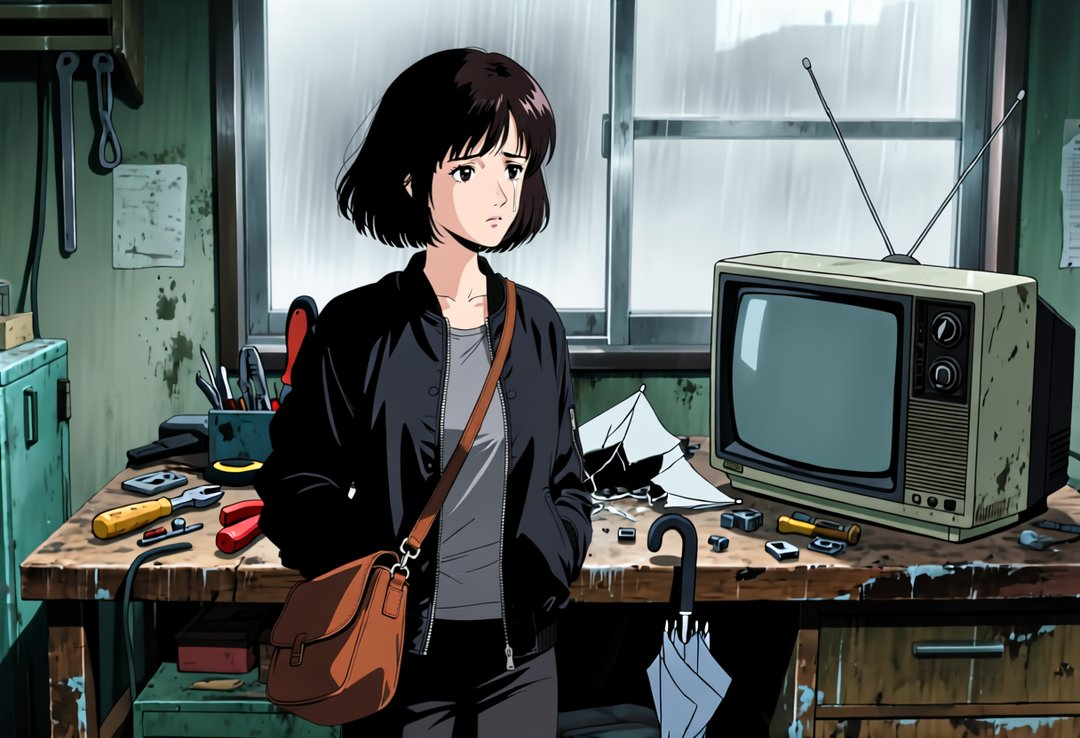
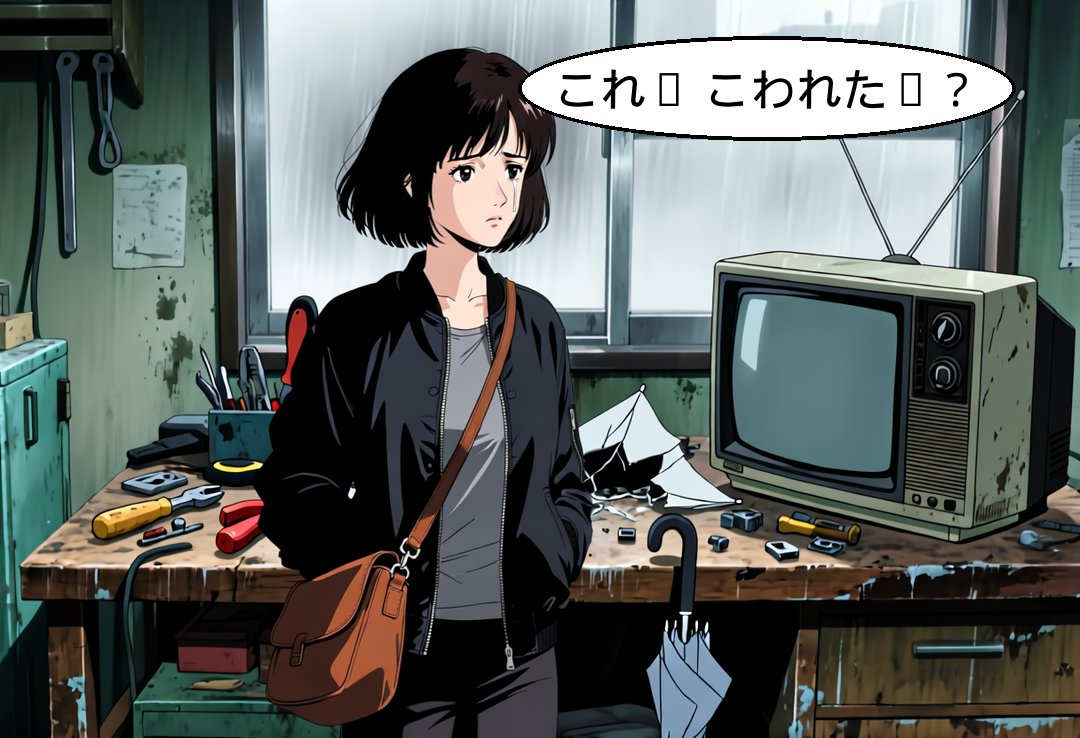
feat(story): Prototyp-Lettering + Folge-01-Erlebnisdaten — hitAreas, intro/outro, Reaktionen (Reader-Erleben)

Changed region(s): [[0.4583, 0.0312, 0.9472, 0.2182]]

diff --git a/lib/features/story/episodes/folge_01_regen.dart b/lib/features/story/episodes/folge_01_regen.dart
@@ -19,6 +19,12 @@ const Map<String, dynamic> pilot01RegenJson = {
   'title': 'Regen',
   'locale': 'ja',
   'era': '1996',
+  'intro':
+      'Eine junge Frau steigt allein aus dem Zug — es regnet. '
+      'In ihrer Hand: ein Zettel, dessen Tinte verläuft.',
+  'outro':
+      'Der Schirm ist geliehen, der Regen hört nicht auf. '
+      'Und der Name über dem Café … den hat sie doch schon einmal gelesen?',
   'budget': {
     'items': [
       {'id': 'lex_ja_sumimasen', 'refType': 'lexeme'},
@@ -126,6 +132,12 @@ const Map<String, dynamic> pilot01RegenJson = {
             {
               'speakerId': 'protagonist',
               'text': 'すみません',
+              'hitArea': [
+                {'x': 0.52, 'y': 0.05},
+                {'x': 0.94, 'y': 0.05},
+                {'x': 0.94, 'y': 0.19},
+                {'x': 0.52, 'y': 0.19},
+              ],
               'tokens': [
                 {'surface': 'すみません', 'itemId': 'lex_ja_sumimasen'},
               ],
@@ -133,7 +145,9 @@ const Map<String, dynamic> pilot01RegenJson = {
           ],
           'thoughts': [],
           'interactions': [
-            {'type': 'speak', 'diegetic': true},
+            {'type': 'speak', 'diegetic': true,
+             'reactionAsset': 'assets/story/p07_reaction.jpg',
+             'reactionCaption': 'Sie hat dich gehört.'},
           ],
           'notes':
               'Eine ältere Frau kommt ihr entgegen, Einkaufstüte, zügig. '
@@ -147,6 +161,12 @@ const Map<String, dynamic> pilot01RegenJson = {
             {
               'speakerId': 'passantin',
               'text': 'はい？',
+              'hitArea': [
+                {'x': 0.06, 'y': 0.05},
+                {'x': 0.42, 'y': 0.05},
+                {'x': 0.42, 'y': 0.18},
+                {'x': 0.06, 'y': 0.18},
+              ],
               'tokens': [
                 {'surface': 'はい', 'itemId': null},
               ],
@@ -199,6 +219,12 @@ const Map<String, dynamic> pilot01RegenJson = {
             {
               'speakerId': 'signage',
               'text': 'あめ',
+              'hitArea': [
+                {'x': 0.32, 'y': 0.36},
+                {'x': 0.62, 'y': 0.36},
+                {'x': 0.62, 'y': 0.50},
+                {'x': 0.32, 'y': 0.50},
+              ],
               'tokens': [
                 {'surface': 'あめ', 'itemId': 'lex_ja_ame'},
               ],
@@ -283,6 +309,12 @@ const Map<String, dynamic> pilot01RegenJson = {
             {
               'speakerId': 'ladenbesitzer',
               'text': 'これ、こわれた',
+              'hitArea': [
+                {'x': 0.06, 'y': 0.05},
+                {'x': 0.52, 'y': 0.05},
+                {'x': 0.52, 'y': 0.19},
+                {'x': 0.06, 'y': 0.19},
+              ],
               'tokens': [
                 {'surface': 'これ', 'itemId': 'lex_ja_kore'},
                 {'surface': 'こわれた', 'itemId': 'lex_ja_kowareta'},
@@ -304,6 +336,12 @@ const Map<String, dynamic> pilot01RegenJson = {
             {
               'speakerId': 'protagonist',
               'text': 'これ… こわれた…？',
+              'hitArea': [
+                {'x': 0.48, 'y': 0.05},
+                {'x': 0.94, 'y': 0.05},
+                {'x': 0.94, 'y': 0.19},
+                {'x': 0.48, 'y': 0.19},
+              ],
               'tokens': [
                 {'surface': 'これ', 'itemId': 'lex_ja_kore'},
                 {'surface': 'こわれた', 'itemId': 'lex_ja_kowareta'},
@@ -325,6 +363,12 @@ const Map<String, dynamic> pilot01RegenJson = {
             {
               'speakerId': 'ladenbesitzer',
               'text': 'はい',
+              'hitArea': [
+                {'x': 0.06, 'y': 0.05},
+                {'x': 0.36, 'y': 0.05},
+                {'x': 0.36, 'y': 0.17},
+                {'x': 0.06, 'y': 0.17},
+              ],
               'tokens': [
                 {'surface': 'はい', 'itemId': 'lex_ja_hai'},
               ],
@@ -350,6 +394,12 @@ const Map<String, dynamic> pilot01RegenJson = {
             {
               'speakerId': 'protagonist',
               'text': 'ありがとう',
+              'hitArea': [
+                {'x': 0.52, 'y': 0.05},
+                {'x': 0.94, 'y': 0.05},
+                {'x': 0.94, 'y': 0.18},
+                {'x': 0.52, 'y': 0.18},
+              ],
               'tokens': [
                 {'surface': 'ありがとう', 'itemId': 'lex_ja_arigatou'},
               ],
@@ -370,6 +420,12 @@ const Map<String, dynamic> pilot01RegenJson = {
             {
               'speakerId': 'ladenbesitzer',
               'text': 'はい。かさ。どうぞ',
+              'hitArea': [
+                {'x': 0.06, 'y': 0.05},
+                {'x': 0.56, 'y': 0.05},
+                {'x': 0.56, 'y': 0.19},
+                {'x': 0.06, 'y': 0.19},
+              ],
               'tokens': [
                 {'surface': 'はい', 'itemId': 'lex_ja_hai'},
                 {'surface': 'かさ', 'itemId': 'lex_ja_kasa'},
@@ -392,6 +448,12 @@ const Map<String, dynamic> pilot01RegenJson = {
             {
               'speakerId': 'protagonist',
               'text': 'ありがとう… すみません',
+              'hitArea': [
+                {'x': 0.44, 'y': 0.05},
+                {'x': 0.94, 'y': 0.05},
+                {'x': 0.94, 'y': 0.19},
+                {'x': 0.44, 'y': 0.19},
+              ],
               'tokens': [
                 {'surface': 'ありがとう', 'itemId': 'lex_ja_arigatou'},
                 {'surface': 'すみません', 'itemId': 'lex_ja_sumimasen'},
@@ -400,7 +462,9 @@ const Map<String, dynamic> pilot01RegenJson = {
           ],
           'thoughts': [],
           'interactions': [
-            {'type': 'speak', 'diegetic': true},
+            {'type': 'speak', 'diegetic': true,
+             'reactionAsset': 'assets/story/p22_reaction.jpg',
+             'reactionCaption': 'Der Ladenbesitzer nickt dir zu.'},
           ],
           'notes':
               'Sie, Schirm in beiden Händen, Verbeugung angedeutet. Hängt '
@@ -415,6 +479,12 @@ const Map<String, dynamic> pilot01RegenJson = {
             {
               'speakerId': 'protagonist',
               'text': 'かさ…',
+              'hitArea': [
+                {'x': 0.56, 'y': 0.05},
+                {'x': 0.94, 'y': 0.05},
+                {'x': 0.94, 'y': 0.17},
+                {'x': 0.56, 'y': 0.17},
+              ],
               'tokens': [
                 {'surface': 'かさ', 'itemId': 'lex_ja_kasa'},
               ],
@@ -435,6 +505,12 @@ const Map<String, dynamic> pilot01RegenJson = {
             {
               'speakerId': 'buch',
               'text': 'あめ',
+              'hitArea': [
+                {'x': 0.30, 'y': 0.34},
+                {'x': 0.62, 'y': 0.34},
+                {'x': 0.62, 'y': 0.48},
+                {'x': 0.30, 'y': 0.48},
+              ],
               'tokens': [
                 {'surface': 'あめ', 'itemId': 'lex_ja_ame'},
               ],
@@ -447,7 +523,9 @@ const Map<String, dynamic> pilot01RegenJson = {
           ],
           'thoughts': [],
           'interactions': [
-            {'type': 'trace', 'diegetic': true},
+            {'type': 'trace', 'diegetic': true,
+             'reactionAsset': 'assets/story/p24_reaction.jpg',
+             'reactionCaption': 'あめ — Regen. Dein erstes geschriebenes Zeichen.'},
           ],
           'notes':
               'Sie hat unter dem Vordach angehalten, das Wörterbuch '

diff --git a/test/features/story/folge_01_regen_test.dart b/test/features/story/folge_01_regen_test.dart
@@ -1,4 +1,5 @@
 import 'package:flutter_test/flutter_test.dart';
+import 'package:nihongo_app/features/story/episode.dart';
 import 'package:nihongo_app/features/story/episodes/folge_01_regen.dart';
 
 void main() {
@@ -8,6 +9,29 @@ void main() {
     expect(episode.locale, 'ja');
     expect(episode.budget.items, isNotEmpty);
     expect(episode.allPanels.length, greaterThanOrEqualTo(2));
+  });
+
+  test('Folge 01 traegt intro, outro und pro Dialog-Bubble eine hitArea', () {
+    final episode = loadFolge01();
+    expect(episode.intro, isNotNull);
+    expect(episode.outro, isNotNull);
+    for (final panel in episode.allPanels) {
+      for (final bubble in panel.bubbles) {
+        if (bubble.tokens.isNotEmpty) {
+          expect(bubble.hitArea.points, hasLength(4),
+              reason: 'Panel ${panel.index}: Dialog-Bubble ohne Tippflaeche');
+        }
+      }
+    }
+    final speakTrace = episode.allPanels
+        .expand((p) => p.interactions)
+        .where((i) => i.diegetic &&
+            (i.type == InteractionType.speak ||
+             i.type == InteractionType.trace));
+    for (final it in speakTrace) {
+      expect(it.reactionAsset, isNotNull);
+      expect(it.reactionCaption, isNotNull);
+    }
   });
 
   test('das Folge-01-Woerterbuch deckt jedes Budget-Item ab', () {

diff --git a/test/features/story/folge_01_panel_assets_test.dart b/test/features/story/folge_01_panel_assets_test.dart
@@ -15,5 +15,12 @@ void main() {
       expect(data.lengthInBytes, greaterThan(1000),
           reason: '${panel.asset} fehlt oder ist leer');
     }
+    for (final it in episode.allPanels.expand((p) => p.interactions)) {
+      final asset = it.reactionAsset;
+      if (asset != null) {
+        final data = await rootBundle.load(asset);
+        expect(data.lengthInBytes, greaterThan(1000));
+      }
+    }
   });
 }

diff --git a/tool/letter_folge01.py b/tool/letter_folge01.py
@@ -1,0 +1,81 @@
+#!/usr/bin/env python3
+"""Prototyp-Lettering fuer Folge 01 (Spec Reader-Erleben §4).
+
+Komponiert Sprechblasen + japanischen Text auf die Original-Renders und
+erzeugt getoente Reaktions-Varianten. Haesslich ist erlaubt — beurteilt
+wird das Erlebnis, nicht das Artwork. Idempotent: liest immer die
+Originale aus SRC, schreibt nach DST.
+"""
+from PIL import Image, ImageDraw, ImageEnhance, ImageFont
+
+SRC = '/home/uli/.claude/jobs/df1342e0/tmp/final'
+DST = 'assets/story'
+FONT = '/usr/share/fonts/truetype/droid/DroidSansFallbackFull.ttf'
+WIDTH = 1080
+
+# Panel -> Liste von (text, (x, y, w, h)) — MUSS mit den hitAreas in
+# lib/features/story/episodes/folge_01_regen.dart uebereinstimmen.
+BUBBLES = {
+    7:  [('すみません', (0.52, 0.05, 0.42, 0.14))],
+    8:  [('はい？', (0.06, 0.05, 0.36, 0.13))],
+    11: [('あめ', (0.32, 0.36, 0.30, 0.14))],
+    17: [('これ、こわれた', (0.06, 0.05, 0.46, 0.14))],
+    18: [('これ… こわれた…？', (0.48, 0.05, 0.46, 0.14))],
+    19: [('はい', (0.06, 0.05, 0.30, 0.12))],
+    20: [('ありがとう', (0.52, 0.05, 0.42, 0.13))],
+    21: [('はい。かさ。どうぞ', (0.06, 0.05, 0.50, 0.14))],
+    22: [('ありがとう… すみません', (0.44, 0.05, 0.50, 0.14))],
+    23: [('かさ…', (0.56, 0.05, 0.38, 0.12))],
+    24: [('あめ', (0.30, 0.34, 0.32, 0.14))],
+}
+REACTIONS = [7, 22, 24]
+
+
+def load(n):
+    img = Image.open(f'{SRC}/P{n:02d}.png').convert('RGB')
+    w, h = img.size
+    return img.resize((WIDTH, int(h * WIDTH / w)), Image.LANCZOS)
+
+
+def fit_font(draw, text, box_w, box_h):
+    size = int(box_h * 0.55)
+    while size > 10:
+        font = ImageFont.truetype(FONT, size)
+        l, t, r, b = draw.textbbox((0, 0), text, font=font)
+        if r - l <= box_w * 0.86 and b - t <= box_h * 0.7:
+            return font
+        size -= 2
+    return ImageFont.truetype(FONT, 10)
+
+
+def letter(img, bubbles):
+    draw = ImageDraw.Draw(img)
+    W, H = img.size
+    for text, (x, y, w, h) in bubbles:
+        box = (x * W, y * H, (x + w) * W, (y + h) * H)
+        draw.ellipse(box, fill='white', outline='black', width=4)
+        font = fit_font(draw, text, (box[2] - box[0]), (box[3] - box[1]))
+        l, t, r, b = draw.textbbox((0, 0), text, font=font)
+        cx = (box[0] + box[2]) / 2 - (r - l) / 2 - l
+        cy = (box[1] + box[3]) / 2 - (b - t) / 2 - t
+        draw.text((cx, cy), text, fill='black', font=font)
+    return img
+
+
+def main():
+    for n in range(1, 25):
+        img = load(n)
+        if n in BUBBLES:
+            img = letter(img, BUBBLES[n])
+        img.save(f'{DST}/p{n:02d}.jpg', quality=85, optimize=True)
+        if n in REACTIONS:
+            warm = ImageEnhance.Color(
+                ImageEnhance.Brightness(img).enhance(1.12)).enhance(1.25)
+            warm.save(f'{DST}/p{n:02d}_reaction.jpg', quality=85,
+                      optimize=True)
+    print('OK: 24 Panels geletttert/kopiert, '
+          f'{len(REACTIONS)} Reaktions-Varianten erzeugt.')
+
+
+if __name__ == '__main__':
+    main()
